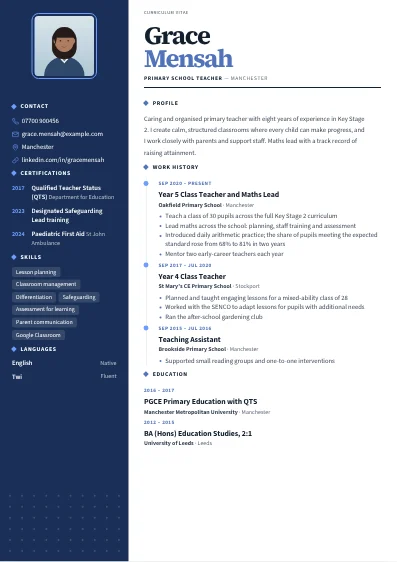
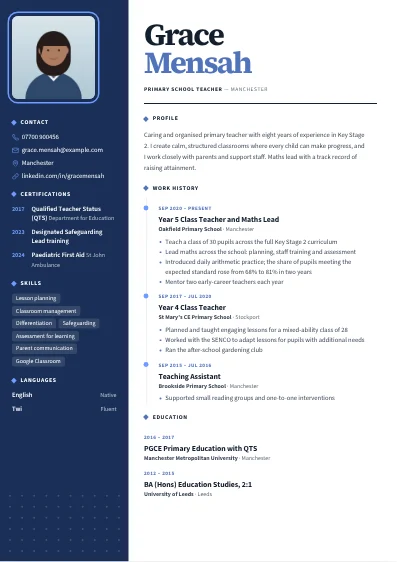
Graphic designs: remove non-CV extras (greeting, CV tag, work box, derived figures)
Removed: the 'Hello, I'm' line, the 'Curriculum vitae' tag, the 'See more of my work' box
(the link is already in the contacts) and the strip of derived figures such as 'Roles held'.
None are written by the person or useful to an employer. Hashes and thumbnails re-recorded
for the 20 graphic designs; composition and catalogue gates pass.

Claude-Session: https://claude.ai/code/session_01L77Rmev6oLepa9gLETUpxP

Changed region(s): [[0.3627, 0.0, 0.937, 0.9075], [0.0, 0.0, 0.272, 0.7562], [0.2418, 0.6352, 0.3023, 0.7562]]

diff --git a/src/modules/templates/graphic/parts.tsx b/src/modules/templates/graphic/parts.tsx
@@ -95,31 +95,12 @@ export function Monogram(_props: { model: RenderModel; star?: string }) {
   return null;
 }
 
-/** The key numbers strip: "09+" style figures with what they count. */
-export function KeyNumbers({ model, className }: { model: RenderModel; className: string }) {
-  if (model.stats.length < 2) return null;
-  return (
-    <div className={`g-stats ${className}`}>
-      {model.stats.map((k, i) => {
-        const m = /^(.*?\d)([^\d]*)$/.exec(k.value);
-        return (
-          <div key={i} className="g-stat">
-            <p className="g-stat-v">
-              {m ? (
-                <>
-                  {m[1]}
-                  {m[2] && <span>{m[2]}</span>}
-                </>
-              ) : (
-                k.value
-              )}
-            </p>
-            <p className="g-stat-l">{k.label}</p>
-          </div>
-        );
-      })}
-    </div>
-  );
+/**
+ * Formerly a strip of derived figures ("Roles held", "Years of experience"). Deliberately renders
+ * nothing: those counts are not written by the person and mean little to an employer.
+ */
+export function KeyNumbers(_props: { model: RenderModel; className: string }) {
+  return null;
 }
 
 /** Section heading with a small graphic marker ('number' counts sections with CSS counters). */

diff --git a/src/modules/templates/graphic/band.tsx b/src/modules/templates/graphic/band.tsx
@@ -126,7 +126,8 @@ function RailArt({ kind }: { kind: BandConfig['art'] }): ReactNode {
   }
 }
 
-const label = (locale: string) => (locale.startsWith('en') ? 'Curriculum vitae' : '');
+/** No "Curriculum vitae" tag: the document is obviously a CV. */
+const label = (_locale: string) => '';
 
 export function bandTemplate(c: BandConfig): CatalogueTemplate {
   function Header({ model }: TemplateComponentProps) {
@@ -158,16 +159,9 @@ export function bandTemplate(c: BandConfig): CatalogueTemplate {
     c.end === 'none'
       ? undefined
       : ({ model }: TemplateComponentProps) => {
-          const l = link(model);
-          if (!l) return null;
-          return (
-            <p className="bd-end">
-              <span>{model.locale.startsWith('en') ? 'See more of my work' : ''}</span>
-              <a href={l.href}>
-                {l.text} <Glyph char="↗" />
-              </a>
-            </p>
-          );
+          // No "See more of my work" box: the link is already listed with the contacts.
+          void link(model);
+          return null;
         };
 
   const PHOTO: Record<BandConfig['photo'], string> = {

diff --git a/src/modules/templates/graphic/spot.tsx b/src/modules/templates/graphic/spot.tsx
@@ -183,8 +183,8 @@ function Art({ kind }: { kind: SpotConfig['art'] }): ReactNode {
   }
 }
 
-/** A short eyebrow, only for English CVs (other languages simply leave it out). */
-const hello = (locale: string) => (locale.startsWith('en') ? 'Hello, I’m' : '');
+/** No eyebrow: a CV does not greet the reader; the name is the heading. */
+const hello = (_locale: string) => '';
 
 export function spotTemplate(c: SpotConfig): CatalogueTemplate {
   function Header({ model }: TemplateComponentProps) {
